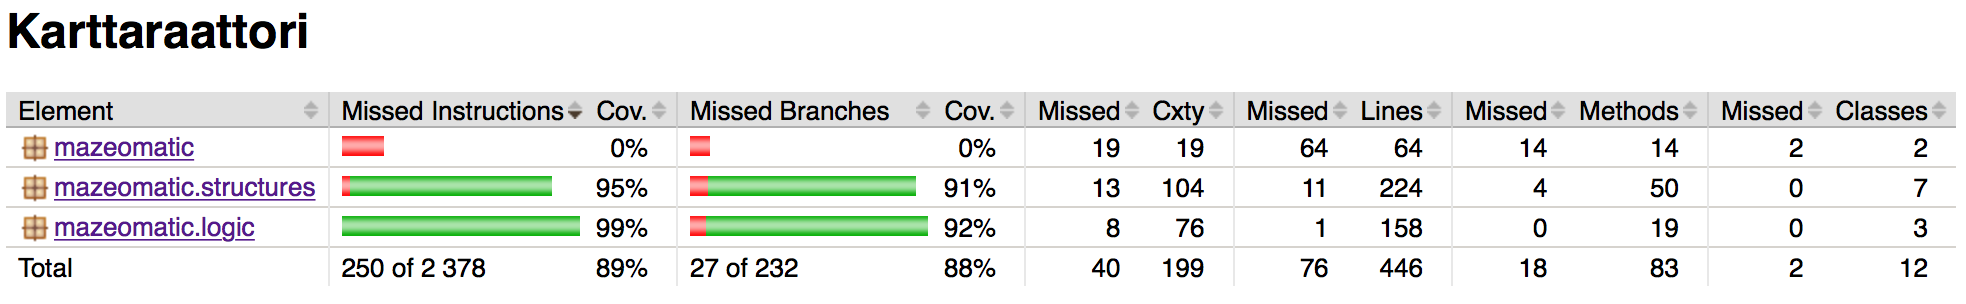
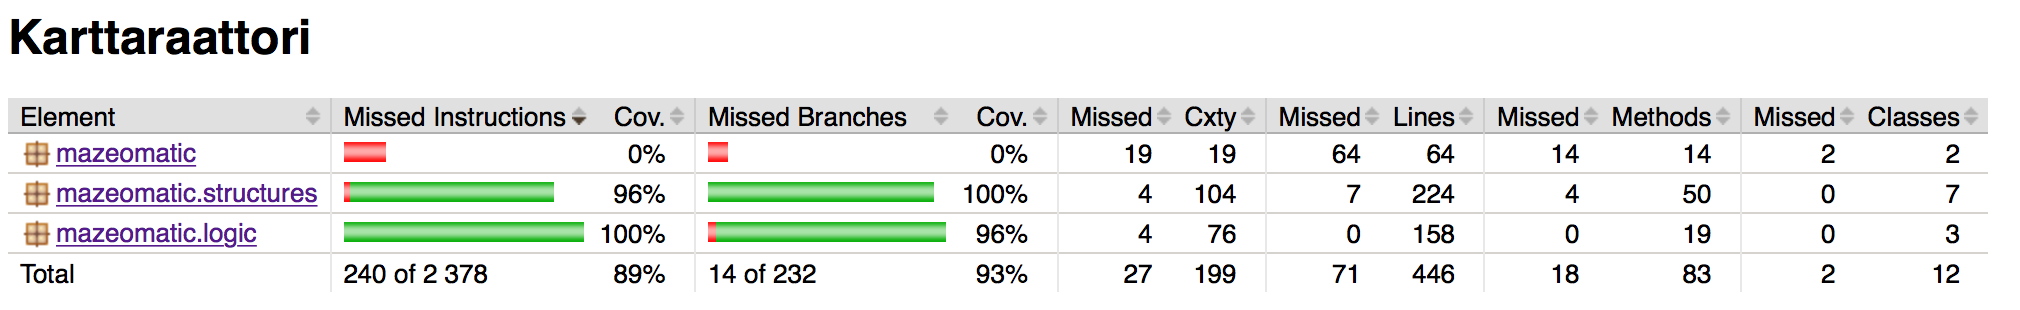
Dokumentaatio ja testit

Changed region(s): [[0.0, 0.2961, 1.0, 0.9178], [0.0, 0.0296, 0.1551, 0.1776], [0.0, 0.8586, 0.031, 0.9178]]

diff --git a/Karttaraattori/src/test/java/mazeomatic/tests/MazeArrayListTest.java b/Karttaraattori/src/test/java/mazeomatic/tests/MazeArrayListTest.java
@@ -56,6 +56,12 @@ public class MazeArrayListTest {
         testMazeArrayListIndexOf(list, null, 1);
 
     }
+    
+    @Test
+    public void testMazeArrayListWithNonExistentItem() {
+        MazeArrayList<String> list = new MazeArrayList();
+        assertFalse(list.contains("MAZE"));
+    }
 
     /**
      * Testing MazeArrayList with more items - create new list - add several
@@ -156,8 +162,17 @@ public class MazeArrayListTest {
             list.remove("TEST" + i);
         }
         assertEquals(1, list.size());
-        
-
+    }
+    
+    @Test
+    public void testMazeArrayListAddingAtIndex() {
+        int lot = 500;
+        MazeArrayList<String> list = new MazeArrayList();
+        list.add("TEST0");
+        for (int i = 0; i < lot; i++) {
+            list.add(i, "TEST" + i);
+        }
+        assertEquals(501, list.size());
     }
 
     /**
@@ -171,6 +186,16 @@ public class MazeArrayListTest {
     }
 
     /**
+     * Test exceptions exception when adding with wrong index
+     */
+    @Test(expected = ArrayIndexOutOfBoundsException.class)
+    public void TestMazeArrayListAddException2() {
+        MazeArrayList<Edge> list = new MazeArrayList();
+        Edge object = new Edge(0, 1, 1);
+        list.add(-1, object);
+    }
+
+    /**
      * Test exceptions exception when removing with wrong index
      */
     @Test(expected = ArrayIndexOutOfBoundsException.class)
@@ -180,12 +205,30 @@ public class MazeArrayListTest {
     }
 
     /**
+     * Test exceptions exception when removing with wrong index
+     */
+    @Test(expected = ArrayIndexOutOfBoundsException.class)
+    public void TestMazeArrayListRemoveException2() {
+        MazeArrayList<Edge> list = new MazeArrayList();
+        list.remove(-1);
+    }
+
+    /**
      * Test exceptions exception when getting with wrong index
      */
     @Test(expected = ArrayIndexOutOfBoundsException.class)
     public void TestMazeArrayListGetException() {
         MazeArrayList<Edge> list = new MazeArrayList();
         list.get(list.size() + 1);
+    }
+
+    /**
+     * Test exceptions exception when getting with wrong index
+     */
+    @Test(expected = ArrayIndexOutOfBoundsException.class)
+    public void TestMazeArrayListGetException2() {
+        MazeArrayList<Edge> list = new MazeArrayList();
+        list.get(-1);
     }
 
     public void testMazeArrayListSize(MazeArrayList list, int expectedSize) {

diff --git a/Karttaraattori/src/test/java/mazeomatic/tests/MazeMinHeapTest.java b/Karttaraattori/src/test/java/mazeomatic/tests/MazeMinHeapTest.java
@@ -25,6 +25,25 @@ public class MazeMinHeapTest {
         MazeMinHeap<String> heap = new MazeMinHeap<>();
         testMazeMinHeapEmptiness(heap, true);
     }
+
+    @Test
+    public void testMazweMinHeapAddNull() {
+        MazeMinHeap<String> heap = new MazeMinHeap<>();
+        heap.add(null);
+        testMazeMinHeapSize(heap, 0);
+    }
+    
+    @Test
+    public void testMinHeapPollEmptyHeap() {
+        MazeMinHeap<String> heap = new MazeMinHeap<>();
+        assertTrue(heap.poll() == null);
+    }
+
+    @Test
+    public void testRemoveFromEmptyHeap() {
+        MazeMinHeap<String> heap = new MazeMinHeap<>();
+        assertFalse(heap.remove("THIS"));
+    }
     
     @Test
     public void testMazeMinHeapAddOneString() {
@@ -43,7 +62,7 @@ public class MazeMinHeapTest {
         heap.add("DEF");
         testMazeMinHeapSize(heap, 2);
     }
-    
+
     @Test
     public void testMazeMinHeapPollCorrectString1() {
         //System.out.println("*** testMazeMinHeapPollCorrectString1 ***");
@@ -73,7 +92,7 @@ public class MazeMinHeapTest {
     public void testMazeMinHeapSize(MazeMinHeap heap, int expectedSize) {
         assertEquals(expectedSize, heap.size());
     }
-    
+
     public void testMazeMinHeapPoll(MazeMinHeap heap, Object o) {
         assertTrue(heap.poll().equals(o));
     }

diff --git a/Karttaraattori/src/test/java/mazeomatic/tests/AstarTest.java b/Karttaraattori/src/test/java/mazeomatic/tests/AstarTest.java
@@ -103,7 +103,7 @@ public class AstarTest {
 
     @Test
     public void testAstarPermformance() {
-        //testAstarPerformanceNaive1();
+        //testAstarPerformance1();
     }
 
     public void testAstarPerformance1() {
@@ -113,7 +113,7 @@ public class AstarTest {
             long average = 0;
             long repeats = 10;
             for (int rep = 1; rep <= repeats; rep++) { // repeats for dimension
-            maze = new Maze(size, size, 2, random);
+                maze = new Maze(size, size, 2, random);
                 PrimNode room0 = new PrimNode(10, 10, 0, 0);
                 maze.roomNodes[0] = room0;
                 PrimNode room1 = new PrimNode(88, 88 - 11, 0, 1);
@@ -121,6 +121,9 @@ public class AstarTest {
                 maze.placeRoomsInMaze();
                 maze.buildGraph();
                 maze.runPrim(0);
+                for (int wall = 30; wall < 60; wall++) {
+                    maze.map[50][wall] = 4;
+                }
                 long start = System.currentTimeMillis();
                 maze.runAstar();
                 long end = System.currentTimeMillis();
